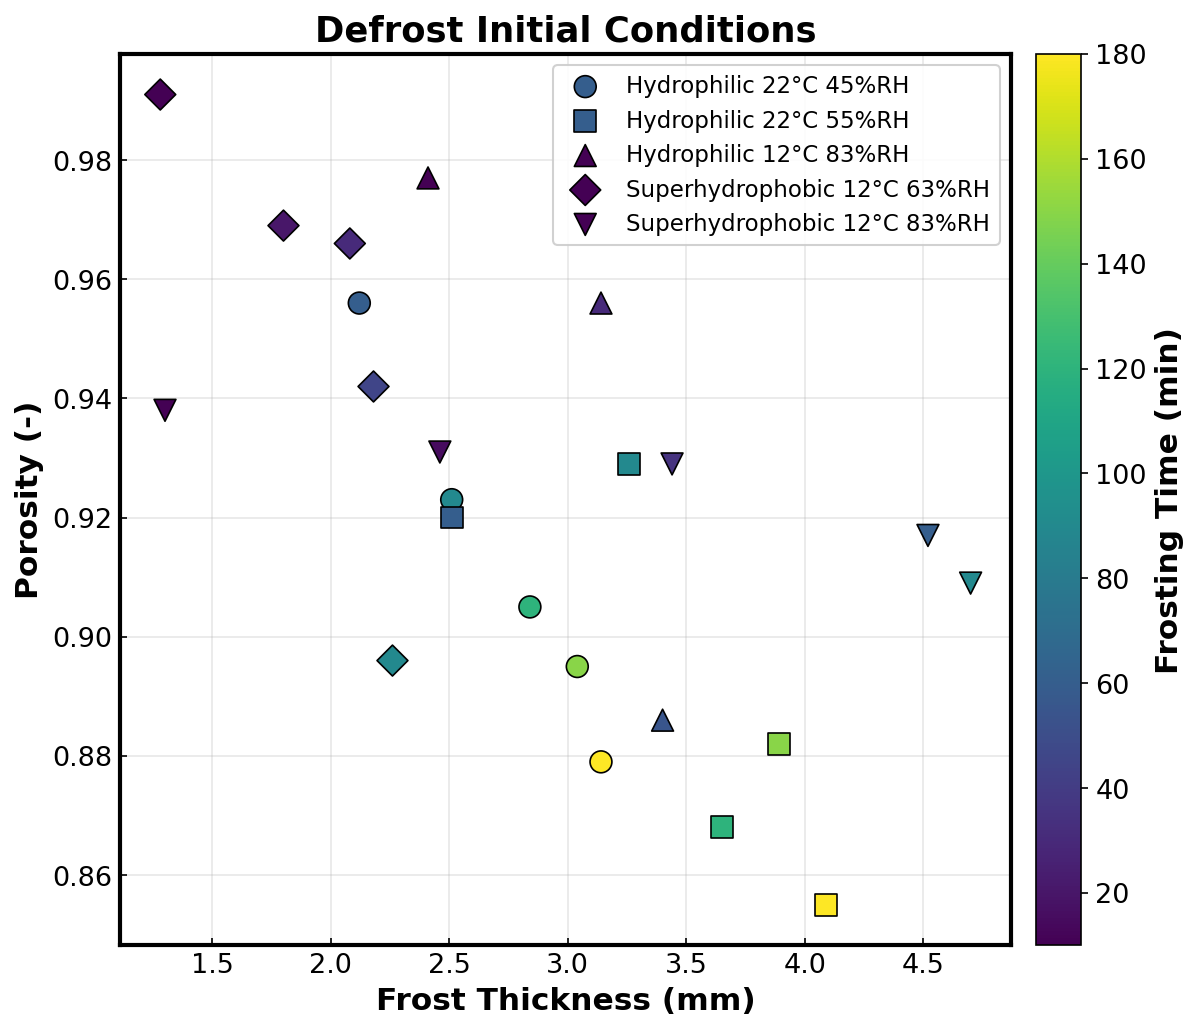
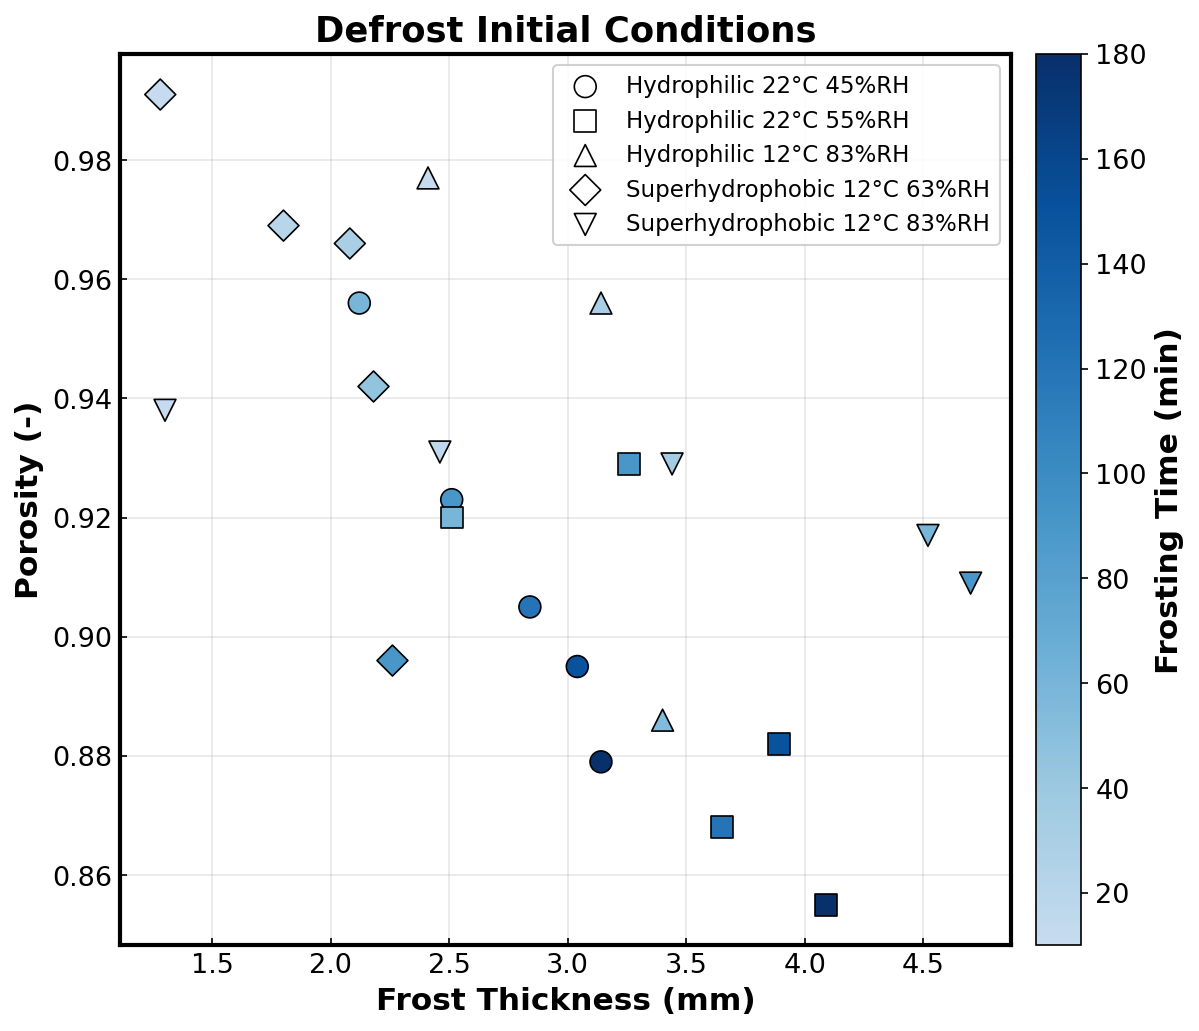
Use single-hue Blues colormap and unfilled legend markers
Replace viridis with a light-to-dark Blues ramp (palest 25% truncated
so short-time points stay visible on white): darker = longer frosting
reads without consulting the colorbar and survives grayscale printing.
Legend markers are now unfilled outlines, since marker fill color
encodes frosting time rather than the experimental condition.

diff --git a/plot_representative_temperature.py b/plot_representative_temperature.py
@@ -357,10 +357,14 @@ def plot_frost_growth(data_file='exp_data/defrost_sloughing_experiment_data.csv'
 
     fig, ax = plt.subplots(figsize=figsize)
 
-    # Shared color scale for frosting time across all conditions
+    # Shared color scale for frosting time across all conditions.
+    # Single-hue light->dark blue ramp (darker = longer frosting); the palest
+    # 25% of Blues is cut so short-time points don't wash out on white.
+    from matplotlib.colors import LinearSegmentedColormap
     all_times = np.concatenate([conditions[label]['time'] for label in conditions])
     norm = plt.Normalize(all_times.min(), all_times.max())
-    cmap = plt.cm.viridis
+    cmap = LinearSegmentedColormap.from_list(
+        'Blues_trunc', plt.cm.Blues(np.linspace(0.25, 1.0, 256)))
 
     # Plot each condition: one marker shape per condition, color = frosting time
     for i, (label, data) in enumerate(conditions.items()):
@@ -385,10 +389,11 @@ def plot_frost_growth(data_file='exp_data/defrost_sloughing_experiment_data.csv'
 
     ax.set_box_aspect(1)
 
-    # Legend shows marker shapes only; neutral fill since color encodes time
+    # Legend shows marker shapes only, unfilled: fill color encodes frosting
+    # time, so legend markers must not carry any fill color
     legend = ax.legend(fontsize=11, framealpha=0.9, loc='upper right')
     for handle in legend.legend_handles:
-        handle.set_facecolor('gray')
+        handle.set_facecolor('none')
         handle.set_edgecolor('black')
 
     plt.tight_layout()
